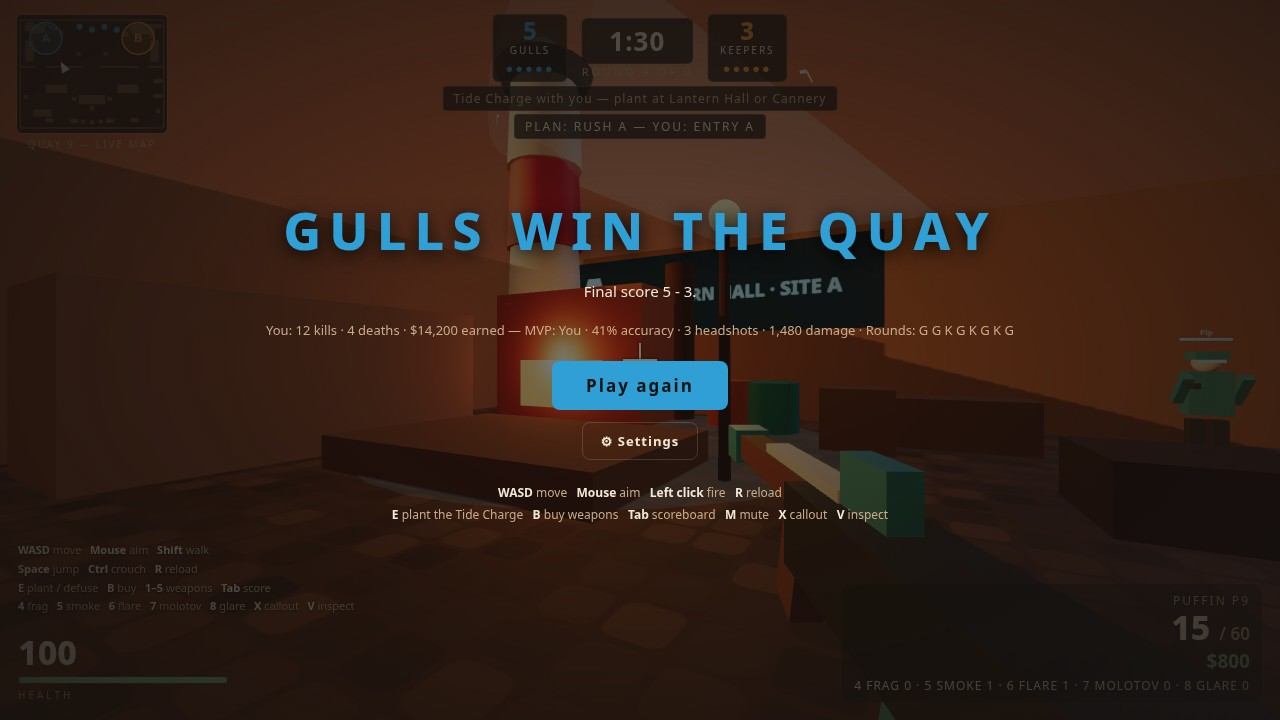
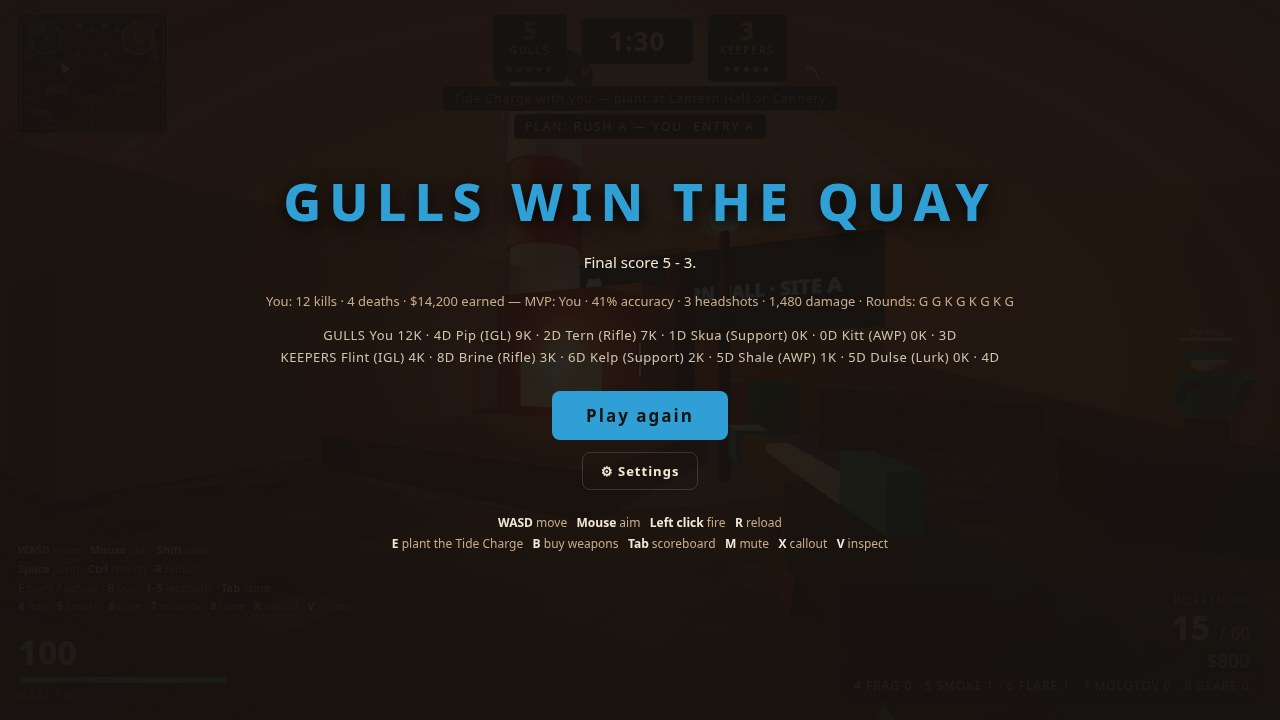
GULLHAVEN fix: cover restage (enemy centre-frame, staged kill), plant shot replaces halftime, 5v5 scoreboard, solid panels, bot roles

diff --git a/game/src/main.js b/game/src/main.js
@@ -99,7 +99,7 @@ let bobY = 0;
 let prevFire = false;
 let prevKeys = new Set();
 let spectateTarget = null;
-const match = { gull: 0, keeper: 0, round: 1, money: START_MONEY, lossStreak: 0, attackTeam: 'gull', kills: 0, deaths: 0, earned: 0, roundKills: 0, totalKills: 0, lastIncome: '', botKills: {}, hasKit: false, roundHistory: [] };
+const match = { gull: 0, keeper: 0, round: 1, money: START_MONEY, lossStreak: 0, attackTeam: 'gull', kills: 0, deaths: 0, earned: 0, roundKills: 0, totalKills: 0, lastIncome: '', botKills: {}, botDeaths: {}, hasKit: false, roundHistory: [] };
 const owned = new Set(['puffin']);
 const ammoStore = {};
 const gunStats = { shots: 0, hits: 0, headshots: 0, damage: 0 };
@@ -199,6 +199,14 @@ function updateScoreboard() {
   document.getElementById('sb-gull-h').textContent = match.attackTeam === 'gull' ? 'GULLS — ATTACK' : 'GULLS — DEFEND';
   document.getElementById('sb-keeper-h').textContent = match.attackTeam === 'keeper' ? 'KEEPERS — ATTACK' : 'KEEPERS — DEFEND';
 }
+function boardText() {
+  const row = (n, k, d) => `${n} ${k}K · ${d}D`;
+  const g = [`You ${match.kills}K · ${match.deaths}D`];
+  for (const b of bots.list) if (b.team === 'gull') g.push(row(b.name, match.botKills[b.name] || 0, match.botDeaths[b.name] || 0));
+  const k = [];
+  for (const b of bots.list) if (b.team === 'keeper') k.push(row(b.name, match.botKills[b.name] || 0, match.botDeaths[b.name] || 0));
+  return `GULLS  ${g.join('  ')}\nKEEPERS  ${k.join('  ')}`;
+}
 
 function damageBot(bot, amount, part, attackerName) {
   if (attackerName === 'You') seenKeeper.set(bot.id, { x: bot.pos.x, z: bot.pos.z, at: time });
@@ -207,6 +215,7 @@ function damageBot(bot, amount, part, attackerName) {
     const weaponName = attackerName === 'You' ? weaponView.state.def.name : '';
     hud.killfeed(attackerName, bot.name, part === 'head', 'gull', weaponName);
     match.totalKills += 1;
+    match.botDeaths[bot.name] = (match.botDeaths[bot.name] || 0) + 1;
     if (attackerName === 'You') {
       match.money += KILL_REWARD;
       match.kills += 1;
@@ -238,7 +247,7 @@ function damageBot(bot, amount, part, attackerName) {
 }
 
 function damagePlayer(amount, fromPos, attackerName) {
-  if (shotMode === 'play' || shotMode === 'half') return;
+  if (shotMode === 'play' || shotMode === 'plant') return;
   if (!player.state.alive || phase !== 'live') return;
   const died = player.damage(amount);
   hud.damageFlash();
@@ -370,15 +379,33 @@ function syncCamera() {
   camera.updateMatrixWorld();
 }
 
-function fireAtBot(bot) {
-  if (!bot) return;
+function aimAt(bot) {
   const eye = new THREE.Vector3(player.state.position.x, player.state.position.y + player.state.eye, player.state.position.z);
-  const target = new THREE.Vector3(bot.pos.x, bot.pos.y + 1.25, bot.pos.z);
-  const d = target.clone().sub(eye);
+  const d = new THREE.Vector3(bot.pos.x, bot.pos.y + 1.25, bot.pos.z).sub(eye);
   const len = d.length() || 1;
   player.state.yaw = Math.atan2(-d.x, -d.z);
   player.state.pitch = Math.asin(Math.max(-1, Math.min(1, d.y / len)));
   syncCamera();
+}
+function coverBot() {
+  const eye = new THREE.Vector3(player.state.position.x, player.state.position.y + player.state.eye, player.state.position.z);
+  let best = null;
+  let bd = 1e9;
+  for (const b of bots.list) {
+    if (b.team !== 'keeper' || !b.alive) continue;
+    const target = new THREE.Vector3(b.pos.x, b.pos.y + 1.25, b.pos.z);
+    const d = target.clone().sub(eye);
+    const dist = d.length();
+    const hit = raycast(eye, d.normalize(), dist);
+    if (!hit || hit.object.userData.bot !== b) continue;
+    const q = Math.hypot(b.pos.x + 13, b.pos.z + 10);
+    if (q < bd) { bd = q; best = b; }
+  }
+  return best || visibleKeeperBot();
+}
+function fireAtBot(bot) {
+  if (!bot) return;
+  aimAt(bot);
   weaponView.state.cooldown = 0;
   tryShoot();
 }
@@ -481,7 +508,7 @@ function endRound(winner, reason) {
         result: match.gull > match.keeper ? 'GULLS WIN THE QUAY' : 'KEEPERS WIN THE QUAY',
         kills: match.kills, deaths: match.deaths, earned: match.earned, mvp,
         accuracy: acc, headshots: gunStats.headshots, damage: gunStats.damage,
-        history: match.roundHistory.join(''),
+        history: match.roundHistory.join(''), board: boardText(),
       });
       input.releaseLock();
     }, 3200);
@@ -519,8 +546,8 @@ function startRound(n) {
   hud.setGrenades(grenades.counts(), match.hasKit);
   hud.setPlan(bots.getPlan(defending ? 'defend' : 'attack'));
   hud.radio(defending
-    ? 'Pip: Halftime — we defend now. Hold Lantern Hall and the Cannery, defuse if they plant.'
-    : 'Pip: Rush A — you entry, we follow.', 'gull');
+    ? 'Pip (IGL): Halftime — we defend now. Hold Lantern Hall and the Cannery, defuse if they plant.'
+    : 'Pip (IGL): Rush A — you entry, we follow.', 'gull');
   hud.setScore(match.gull, match.keeper, match.round);
   hud.setMoney(match.money);
   hud.setAlive(5, 5);
@@ -553,6 +580,7 @@ function startMatch() {
   match.roundHistory = [];
   match.lastIncome = '';
   match.botKills = {};
+  match.botDeaths = {};
   match.hasKit = false;
   gunStats.shots = 0;
   gunStats.hits = 0;
@@ -574,6 +602,7 @@ const ctx = {
   get callout() { return time < calloutUntil ? calloutSite : null; },
   get playerPos() { return player.state.position; },
   get playerAlive() { return player.state.alive; },
+  get noFlare() { return shotMode !== ''; },
   charge: charge.state,
   bots: bots.list,
   rng,
@@ -801,7 +830,7 @@ function fixedStep(dt) {
           if (plantProgress > 0) plantProgress = Math.max(0, plantProgress - dt * 2);
           hud.plantProgress(plantProgress > 0 ? plantProgress : null, 'PLANTING…');
         }
-      } else {
+      } else if (shotMode !== 'plant') {
         plantProgress = 0;
         hud.plantProgress(null);
       }
@@ -923,25 +952,30 @@ function setupShot() {
     match.money = 4050;
     match.lastIncome = 'Round won +$3,250 · 2 kills +$600';
     hud.showBuy(Object.values(WEAPONS), match.money, weaponView.state.id, player.state.armor, match.hasKit, grenadeShop(), match.lastIncome, 5);
-  } else if (shotMode === 'half') {
-    startRound(5);
+  } else if (shotMode === 'plant') {
+    startRound(1);
     hud.hideBuy();
     hud.hideOverlay();
     phase = 'live';
     roundTimer = ROUND_TIME;
+    const planter = bots.list.find((b) => b.team === 'gull');
+    planter.pos.set(-12, 0, -9);
+    planter.group.position.set(-12, 0, -9);
+    planter.yaw = 0;
+    planter.group.rotation.y = 0;
+    planter.state = 'plant';
+    planter.plantProgress = 0.55;
+    charge.drop(new THREE.Vector3(-11.4, 0, -9.8));
+    hud.plantProgress(0.55, 'PLANTING THE CHARGE — SITE A');
+    hud.banner('ARMING THE CHARGE', 'Pip (IGL) is planting the Tide Charge at Lantern Hall — cover him!', 60000);
+    player.reset(new THREE.Vector3(-6, 0, -2), 0.5);
     scene.updateMatrixWorld(true);
-    for (let i = 0; i < 180; i += 1) {
-      fixedStep(STEP);
-      scene.updateMatrixWorld(true);
-      if (phase !== 'live') break;
-    }
-    hud.banner('HALFTIME — SIDES SWITCHED', 'You defend now — hold the sites and defuse the charge', 60000);
   } else if (shotMode === 'play') {
     match.money = 800;
     owned.add('osprey');
     switchWeapon('osprey');
     player.state.armor = 50;
-    player.reset(new THREE.Vector3(-15, 0, 0), 0.0);
+    player.reset(new THREE.Vector3(-6, 0, -2), 0.5);
     phase = 'live';
     roundTimer = ROUND_TIME;
     bots.spawnRound(1, seedBase + 108);
@@ -954,32 +988,23 @@ function setupShot() {
     hud.hideOverlay();
     hud.hideBuy();
     updateScoreboard();
-    hud.radio('Pip: Smoking Lantern Hall — push through it', 'gull');
+    hud.radio('Pip (IGL): Smoking Lantern Hall — push through it', 'gull');
     scene.updateMatrixWorld(true);
     let coverTarget = null;
     let burstLeft = 0;
     let burstDone = false;
     for (let i = 0; i < 300; i += 1) {
-      if (i === 90) {
-        player.state.yaw = -0.2;
-        camera.rotation.y = -0.2;
-        throwPlayerGrenade('molotov');
-        hud.radio('You: Molotov out — Lantern Hall is burning', 'gull');
-      }
-      if (i === 120) {
-        player.state.yaw = -0.2;
-        camera.rotation.y = -0.2;
+      if (i === 30) {
+        player.state.yaw = 0.7;
+        camera.rotation.y = 0.7;
         throwPlayerGrenade('flare');
         hud.radio('You: Flare out — they are blind!', 'gull');
       }
-      if (i === 140) {
-        player.state.yaw = 0.2;
-        camera.rotation.y = 0.2;
-        throwPlayerGrenade('smoke');
-      }
-      if (i === 230) {
-        player.state.yaw = 0.0;
-        camera.rotation.y = 0.0;
+      if (i === 90) {
+        player.state.yaw = 0.8;
+        camera.rotation.y = 0.8;
+        throwPlayerGrenade('molotov');
+        hud.radio('You: Molotov out — Lantern Hall is burning', 'gull');
       }
       if (!burstDone && burstLeft === 0 && i >= 140 && i % 5 === 0) {
         const vis = visibleKeeperBot();
@@ -1003,10 +1028,11 @@ function setupShot() {
     match.kills = 12;
     match.deaths = 4;
     match.earned = 14200;
-    match.botKills = { Pip: 9, Tern: 7 };
+    match.botKills = { 'Pip (IGL)': 9, 'Tern (Rifle)': 7, 'Flint (IGL)': 4, 'Brine (Rifle)': 3, 'Kelp (Support)': 2, 'Shale (AWP)': 1 };
+    match.botDeaths = { 'Pip (IGL)': 2, 'Tern (Rifle)': 1, 'Skua (Support)': 0, 'Kitt (AWP)': 3, 'Flint (IGL)': 8, 'Brine (Rifle)': 6, 'Kelp (Support)': 5, 'Shale (AWP)': 5, 'Dulse (Lurk)': 4 };
     hud.setScore(5, 3, 9);
     bots.spawnRound(9, seedBase + 916, 'keeper');
-    hud.showOverlay('end', '5 - 3', { result: 'GULLS WIN THE QUAY', kills: 12, deaths: 4, earned: 14200, mvp: 'You', accuracy: 41, headshots: 3, damage: 1480, history: 'GGKGKGKG' });
+    hud.showOverlay('end', '5 - 3', { result: 'GULLS WIN THE QUAY', kills: 12, deaths: 4, earned: 14200, mvp: 'You', accuracy: 41, headshots: 3, damage: 1480, history: 'GGKGKGKG', board: boardText() });
     player.reset(new THREE.Vector3(-8, 0, -2), 0.5);
     phase = 'menu';
   }
@@ -1015,9 +1041,22 @@ function setupShot() {
     requestAnimationFrame(() => {
       if (finalShotPending) {
         finalShotPending = false;
+        const foe = coverBot();
+        if (foe) {
+          const eye = new THREE.Vector3(player.state.position.x, player.state.position.y + player.state.eye, player.state.position.z);
+          const dx = foe.pos.x - eye.x;
+          const dz = foe.pos.z - eye.z;
+          const dl = Math.hypot(dx, dz) || 1;
+          foe.pos.set(eye.x + (dx / dl) * 8, 0, eye.z + (dz / dl) * 8);
+          foe.group.position.copy(foe.pos);
+          foe.yaw = Math.atan2(dx, dz);
+          foe.group.rotation.y = foe.yaw;
+          foe.health = 20;
+          aimAt(foe);
+        }
         weaponView.state.cooldown = 0;
         tryShoot();
-        weaponView.state.flash = 5;
+        weaponView.state.flash = 0.5;
       }
       render();
       window.__shotReady = true;

diff --git a/game/index.html b/game/index.html
@@ -12,7 +12,7 @@
     --amber: #ff9a2e;
     --danger: #e5484d;
     --money: #7dc383;
-    --panel: rgba(16, 12, 9, 0.78);
+    --panel: #100c09;
     --line: rgba(242, 232, 213, 0.16);
   }
   * { box-sizing: border-box; margin: 0; padding: 0; }
@@ -211,11 +211,12 @@
   #overlay {
     position: absolute; inset: 0; z-index: 10; display: flex; flex-direction: column;
     align-items: center; justify-content: center; text-align: center;
-    background: radial-gradient(ellipse at center, rgba(23,19,16,.55) 0%, rgba(23,19,16,.88) 100%);
+    background: radial-gradient(ellipse at center, rgba(23,19,16,.92) 0%, rgba(23,19,16,.97) 100%);
   }
   #overlay-title { font-size: 52px; font-weight: 800; letter-spacing: 8px; color: var(--accent); text-shadow: 0 3px 18px rgba(0,0,0,.9); }
   #overlay-copy { max-width: 560px; font-size: 15px; line-height: 1.6; color: var(--ink); margin: 14px 0 26px; }
   #overlay-stats { font-size: 13px; color: var(--muted); margin: -8px 0 22px; }
+  #overlay-board { font-size: 13px; color: #cfc4ae; letter-spacing: .04em; line-height: 1.7; white-space: pre-line; margin: -8px 0 22px; }
   #play {
     font-family: inherit; font-size: 17px; font-weight: 700; letter-spacing: 2px; color: #171310;
     background: var(--accent); border: none; border-radius: 8px; padding: 13px 34px; cursor: pointer;
@@ -323,6 +324,7 @@
     <div id="overlay-title">GULLHAVEN</div>
     <div id="overlay-copy">Round-based tactical FPS on Quay 9 at dusk. Plant the Tide Charge at Lantern Hall or the Cannery, or eliminate the Keeper team. The lighthouse sweeps its beam over the quay. Bots hear gunfire, call it on the radio and play a team plan — and if you stall, a Gull takes the charge and plants it. Throw frag, smoke, flare, Molotov and glare with 4, 5, 6, 7 and 8. First to 5 rounds takes the quay. Sides switch at halftime — then you defend and defuse.</div>
     <div id="overlay-stats" hidden></div>
+    <div id="overlay-board" hidden></div>
     <button id="play" type="button">Click to play</button>
     <button id="settings-btn" type="button">⚙ Settings</button>
     <div id="overlay-keys">

diff --git a/game/src/bots.js b/game/src/bots.js
@@ -5,8 +5,8 @@ import * as THREE from 'three';
 import { PALETTE } from './palette.js';
 import { WEAPONS } from './weapons.js';
 
-const GULL_NAMES = ['Pip', 'Tern', 'Skua', 'Kitt'];
-const KEEPER_NAMES = ['Flint', 'Brine', 'Kelp', 'Shale', 'Dulse'];
+const GULL_NAMES = ['Pip (IGL)', 'Tern (Rifle)', 'Skua (Support)', 'Kitt (AWP)'];
+const KEEPER_NAMES = ['Flint (IGL)', 'Brine (Rifle)', 'Kelp (Support)', 'Shale (AWP)', 'Dulse (Lurk)'];
 const RADIUS = 0.34;
 const HEIGHT = 1.72;
 const EYE = 1.5;
@@ -217,7 +217,7 @@ export function createBots(scene, world) {
         flareReady: team !== attackTeam && index === 0,
         molotovReady: team !== attackTeam && index === 1,
         stallCalled: false,
-        skill: name === 'Flint' ? 0.7 : name === 'Kitt' ? 0.85 : 1,
+        skill: name === 'Flint (IGL)' ? 0.7 : name === 'Kitt (AWP)' ? 0.85 : 1,
       };
       torso.userData.bot = bot;
       torso.userData.part = 'torso';
@@ -426,7 +426,7 @@ export function createBots(scene, world) {
         if (Math.hypot(bot.pos.x - site.center.x, bot.pos.z - site.center.z) < 2.2) bot.state = 'hold';
         else bot.state = 'push';
       } else {
-        if (bot.flareReady && !bot.target) {
+        if (bot.flareReady && !bot.target && !ctx.noFlare) {
           const site = world.sites[bot.goalSite];
           let nearest = null;
           let nearestD = 12;

diff --git a/game/src/hud.js b/game/src/hud.js
@@ -8,6 +8,7 @@ export function createHud() {
     title: $('overlay-title'),
     copy: $('overlay-copy'),
     stats: $('overlay-stats'),
+    board: $('overlay-board'),
     play: $('play'),
     settingsBtn: $('settings-btn'),
     settingsPanel: $('settings-panel'),
@@ -223,7 +224,7 @@ export function createHud() {
       const v = document.createElement('span');
       v.className = victim === 'You' ? 'feed-gull' : 'feed-keeper';
       v.textContent = victim;
-      row.append(k, document.createTextNode(headshot ? ' ☠ ' : ' ✕ '), v);
+      row.append(k, document.createTextNode(headshot ? ' ☠ HEAD ' : ' ✕ '), v);
       if (weapon) {
         const w = document.createElement('span');
         w.className = 'feed-weapon';
@@ -339,8 +340,11 @@ export function createHud() {
         const hist = stats.history ? ` · Rounds: ${stats.history.split('').join(' ')}` : '';
         els.stats.textContent = `You: ${stats.kills} kills · ${stats.deaths} deaths · $${stats.earned.toLocaleString()} earned — MVP: ${stats.mvp} · ${acc}% accuracy · ${hs} headshots · ${dmg.toLocaleString()} damage${hist}`;
         show(els.stats);
+        els.board.textContent = stats.board || '';
+        show(els.board);
       } else {
         hide(els.stats);
+        hide(els.board);
       }
       els.play.textContent = text.action;
       show(els.overlay);

diff --git a/README.md b/README.md
@@ -21,7 +21,7 @@ shotgun, Osprey AR, Albatross 7 sniper), armour, a defuse kit, and grenades.
 ("PLAN: RUSH A — YOU: ENTRY A"), hear gunfire and explosions and walk over to
 look, and call every contact by lane name. The attack rushes one site together
 from the first second — and if a round is still unplanted at 40 seconds, the
-whole team pushes at once, so every round ends with a winner, never a clock.
+whole team pushes at once, so every round ends with a winner — by elimination, detonation, defuse, or the clock.
 If you stall with the charge, a Gull takes it from you and plants it. The
 defenders answer the rush with a flare that blinds whoever faces it, a
 Molotov that denies the site with fire, and a smoke screen of their own.
@@ -53,6 +53,7 @@ WASD move, mouse aim, left click fire, R reload, E plant/defuse, B buy,
 1–5 weapons, 4–7 grenades, Tab scoreboard, M mute.
 
 **Screenshots.** Four real renders of the game's own code (`?shot=play|buy|
-half|end`): the cover is a live firefight at Lantern Hall — Molotov burning
-at the lighthouse, a flare lighting the lane, smoke down the west gap, and a
-three-shot burst with a star muzzle flash and tracer.
+plant|end`): the cover is a live firefight at Lantern Hall — Molotov burning
+at the site, a Keeper dropping at the crosshair under a star muzzle flash.
+The third is the plant: Pip (IGL) arming the Tide Charge at Site A under
+the ARMING THE CHARGE banner, progress bar at 55%.
